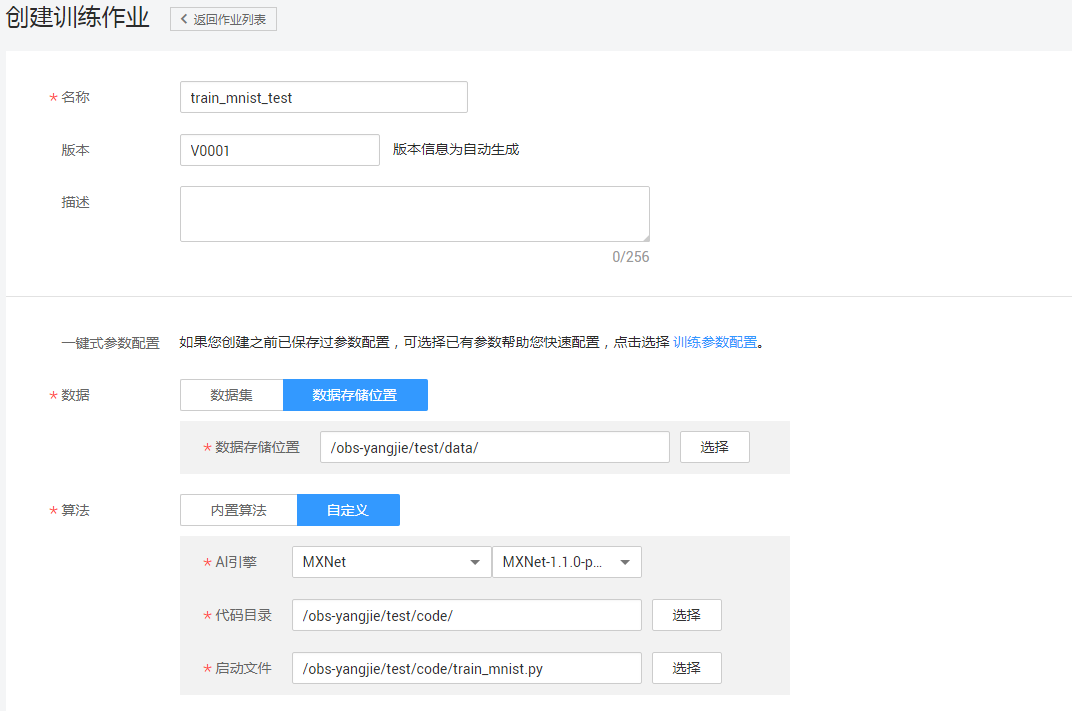
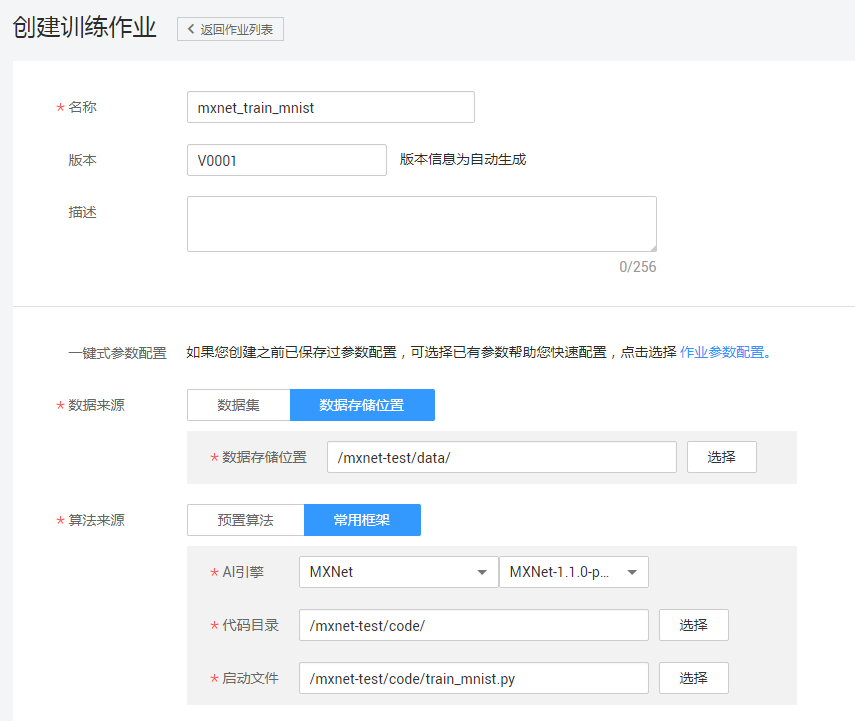
fix pic problems 2

diff --git a/Using MXNet to Create a MNIST Dataset Recognition Application/README.md b/Using MXNet to Create a MNIST Dataset Recognition Application/README.md
@@ -21,8 +21,7 @@
 - train-images-idx3-ubyte.gz：训练集，共包含60000个样本。
 - train-labels-idx1-ubyte.gz：训练集标签，共包含60000个样本的类别标签。
 
-
-**步骤 2**  &#160; &#160; 解压缩4个压缩文件，并参考<a href = "https://support.huaweicloud.com/usermanual-dls/dls_01_0040.html">“上传业务数据”</a>章节内容，分别上传至华为云OBS桶 （假设OBS桶路径为：s3://obs-lpf/data/mnist/）。
+**步骤 2**  &#160; &#160; 解压缩4个压缩文件，并参考<a href = "https://support.huaweicloud.com/usermanual-dls/dls_01_0040.html">“上传业务数据”</a>章节内容，分别上传至华为云OBS桶 （假设OBS桶路径为：s3://mxnet-test/data/）。
 
 
 ### 2. 训练模型
@@ -30,7 +29,7 @@
 
 **步骤 1**  &#160; &#160; 下载由MXNet原生接口编写的模型训练脚本文件<a href ="codes/train_mnist.py">train\_mnist.py</a>。
 
-**步骤 2**  &#160; &#160; 参考<a href = "https://support.huaweicloud.com/usermanual-dls/dls_01_0040.html">“上传业务数据”</a>章节内容，将脚本文件上传至华为云OBS桶 （假设OBS桶路径为：s3://obs-lpf/test/mnist/）。
+**步骤 2**  &#160; &#160; 参考<a href = "https://support.huaweicloud.com/usermanual-dls/dls_01_0040.html">“上传业务数据”</a>章节内容，将脚本文件上传至华为云OBS桶 （假设OBS桶路径为：s3://mxnet-test/data/）。
 
 **步骤 3**  &#160; &#160; 登录“ModelArts”管理控制台。
 
@@ -63,7 +62,7 @@
 
 
 
-其中元模型的路径需要设置为.params和.json文件所在文件夹的上一层文件夹，比如图3红框的路径：/dls-tcd/ckpt/
+其中元模型的路径需要设置为.params和.json文件所在文件夹的上一层文件夹，比如图3红框的路径：/mxnet-test/ckpt/
 
 图3 元模型指定路径
 
